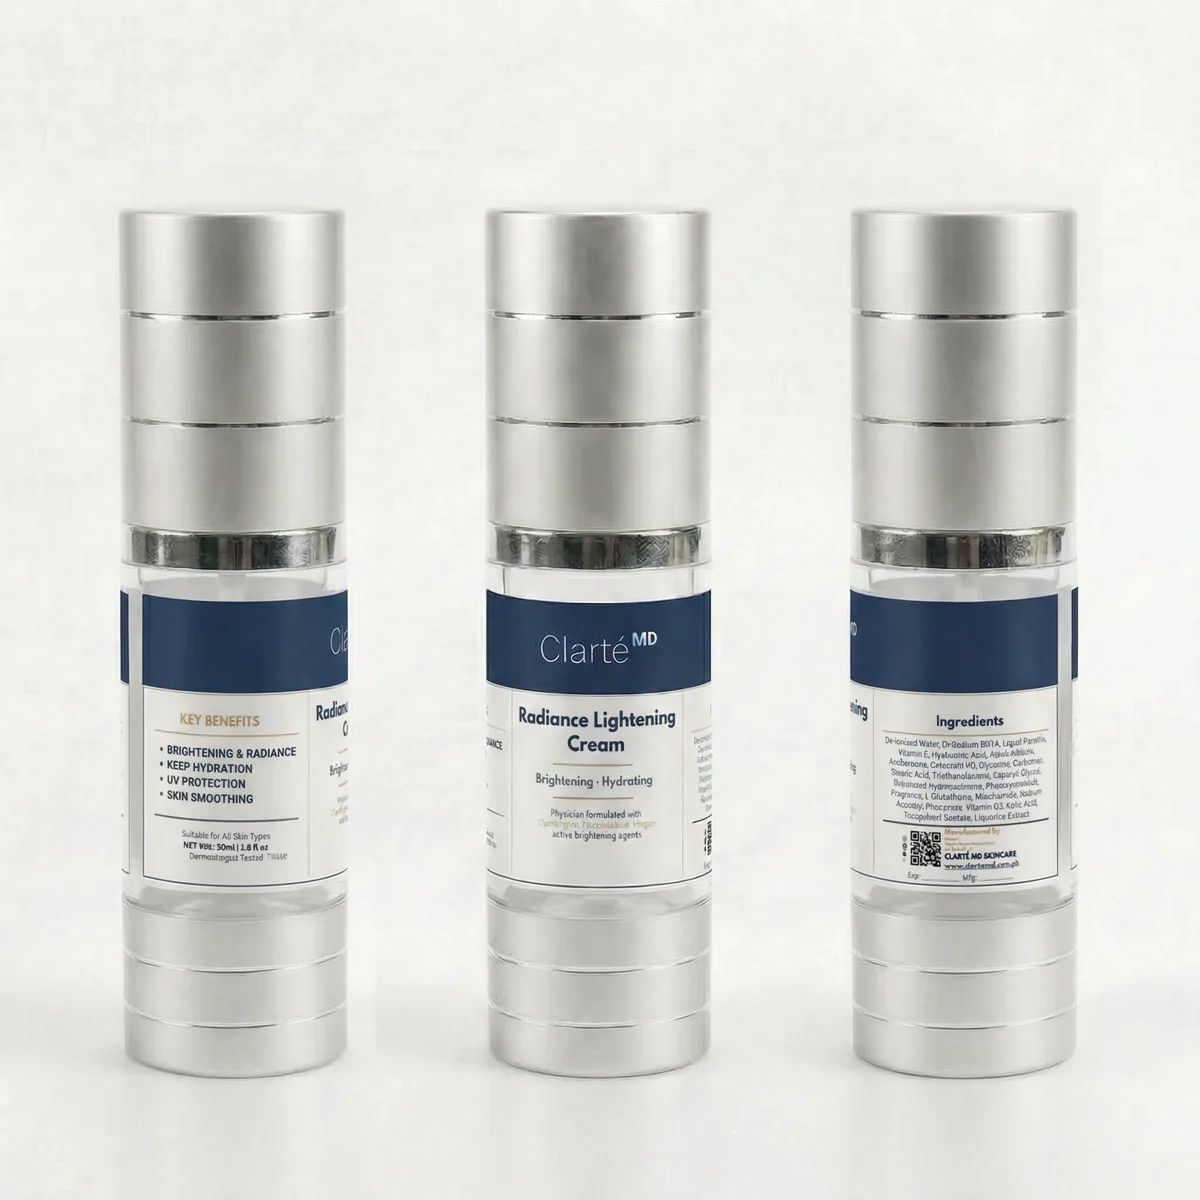
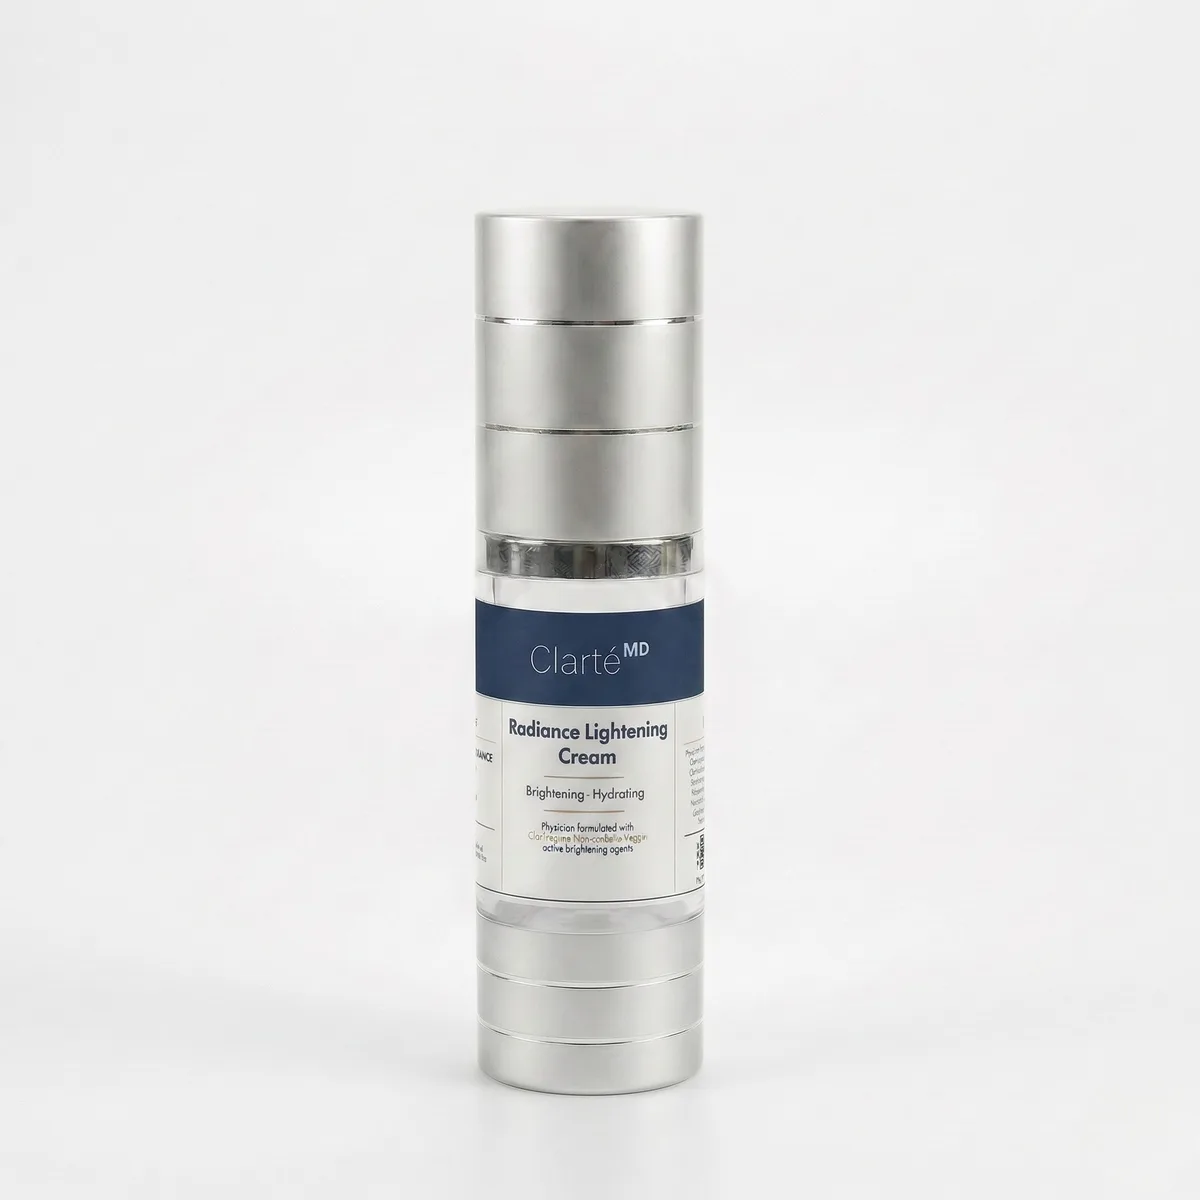
chore(images): remap product heroes to operator-picked front shots
Operator reviewed the gallery for each of the 8 SKUs on 2026-05-19
and picked a different image as the hero. The first optimizer pass
had used each folder's *named* file as the hero — but those turned
out to be 3-bottle composite spreads, not single-bottle front shots.

New picks (single-bottle front shot per SKU, the most conventional
e-commerce hero):

  acne  -> view-2  (Front — 'Clarifying Acne Serum')
  ha    -> view-3  (Front — 'Hyaluronic Acid Serum')
  light -> view-2  (Front — 'Radiance Lightening Cream')
  prep  -> view-2  (Front — 'Radiance Prep Cleanser')
  rescue-> view-2  (Front — 'Clarifying Rescue Wash')
  reti  -> view-3  (Front — 'Retinol Serum')
  spf   -> view-1  (Front — 'Barrier Restore SPF 50+')
  vitc  -> view-2  (Front — 'Vitamin CE Ferrulic Serum')

scripts/remap-product-heroes.ts is a one-shot tool that swaps
hero.webp <-> view-N.webp in each public/products/<sku>/ folder
according to the PICKS table. The old composite shot lands in the
picked view slot — still useful as a gallery view.

scripts/optimize-product-images.ts gets a comment-only note pointing
to the remap so anyone re-running the optimizer from raw PNGs knows
to follow up with the remap to honour these picks.

All 8 new heroes verified locally on :3005 (200 OK, file sizes
19-30 KB matching the single-bottle WebPs).

diff --git a/scripts/remap-product-heroes.ts b/scripts/remap-product-heroes.ts
@@ -1,0 +1,52 @@
+/**
+ * One-shot hero remapper for public/products/<sku>/{hero,view-1,2,3}.webp.
+ *
+ * After the first optimizer pass landed on 2026-05-19, operator
+ * reviewed each gallery and picked a different image as the hero per
+ * SKU. This script swaps hero.webp <-> view-N.webp for each SKU
+ * according to the PICKS table below, so the chosen single-bottle
+ * front shot becomes the gallery hero and the old 3-bottle composite
+ * drops into the picked view slot.
+ *
+ * Idempotent — re-running with the same PICKS yields the same final
+ * state (the swap is its own inverse after one application; running
+ * twice with the same picks would undo, so DON'T run twice unless
+ * you've changed PICKS).
+ *
+ * Run: npx tsx scripts/remap-product-heroes.ts
+ */
+import { existsSync, renameSync } from 'node:fs';
+import { join } from 'node:path';
+
+const PICKS: Record<string, number> = {
+  acne: 2,
+  ha: 3,
+  light: 2,
+  prep: 2,
+  rescue: 2,
+  reti: 3,
+  spf: 1,
+  vitc: 2,
+};
+
+const OUT_ROOT = join(process.cwd(), 'public', 'products');
+
+function swap(skuDir: string, viewIdx: number) {
+  const hero = join(skuDir, 'hero.webp');
+  const view = join(skuDir, `view-${viewIdx}.webp`);
+  const tmp = join(skuDir, '.tmp-swap.webp');
+  if (!existsSync(hero) || !existsSync(view)) {
+    throw new Error(`Missing file(s) for swap in ${skuDir}: hero=${existsSync(hero)} view=${existsSync(view)}`);
+  }
+  renameSync(hero, tmp);
+  renameSync(view, hero);
+  renameSync(tmp, view);
+}
+
+for (const [sku, pick] of Object.entries(PICKS)) {
+  const dir = join(OUT_ROOT, sku);
+  swap(dir, pick);
+  console.log(`  ✓ ${sku}: hero <-> view-${pick}`);
+}
+
+console.log('\nHero remap complete.');

diff --git a/scripts/optimize-product-images.ts b/scripts/optimize-product-images.ts
@@ -10,6 +10,13 @@
  *
  * Run: npx tsx scripts/optimize-product-images.ts
  * Idempotent — overwrites prior output.
+ *
+ * NOTE: This pass picks the operator's *named* file in each folder
+ * (e.g. Retinol.png) as the hero — which turned out to be a 3-bottle
+ * composite shot. Operator subsequently asked for single-bottle front
+ * shots as heroes. If you re-run this optimizer from scratch, also
+ * run `scripts/remap-product-heroes.ts` afterward to apply the chosen
+ * hero/view swaps.
  */
 import { existsSync, mkdirSync, readdirSync } from 'node:fs';
 import { copyFile } from 'node:fs/promises';
